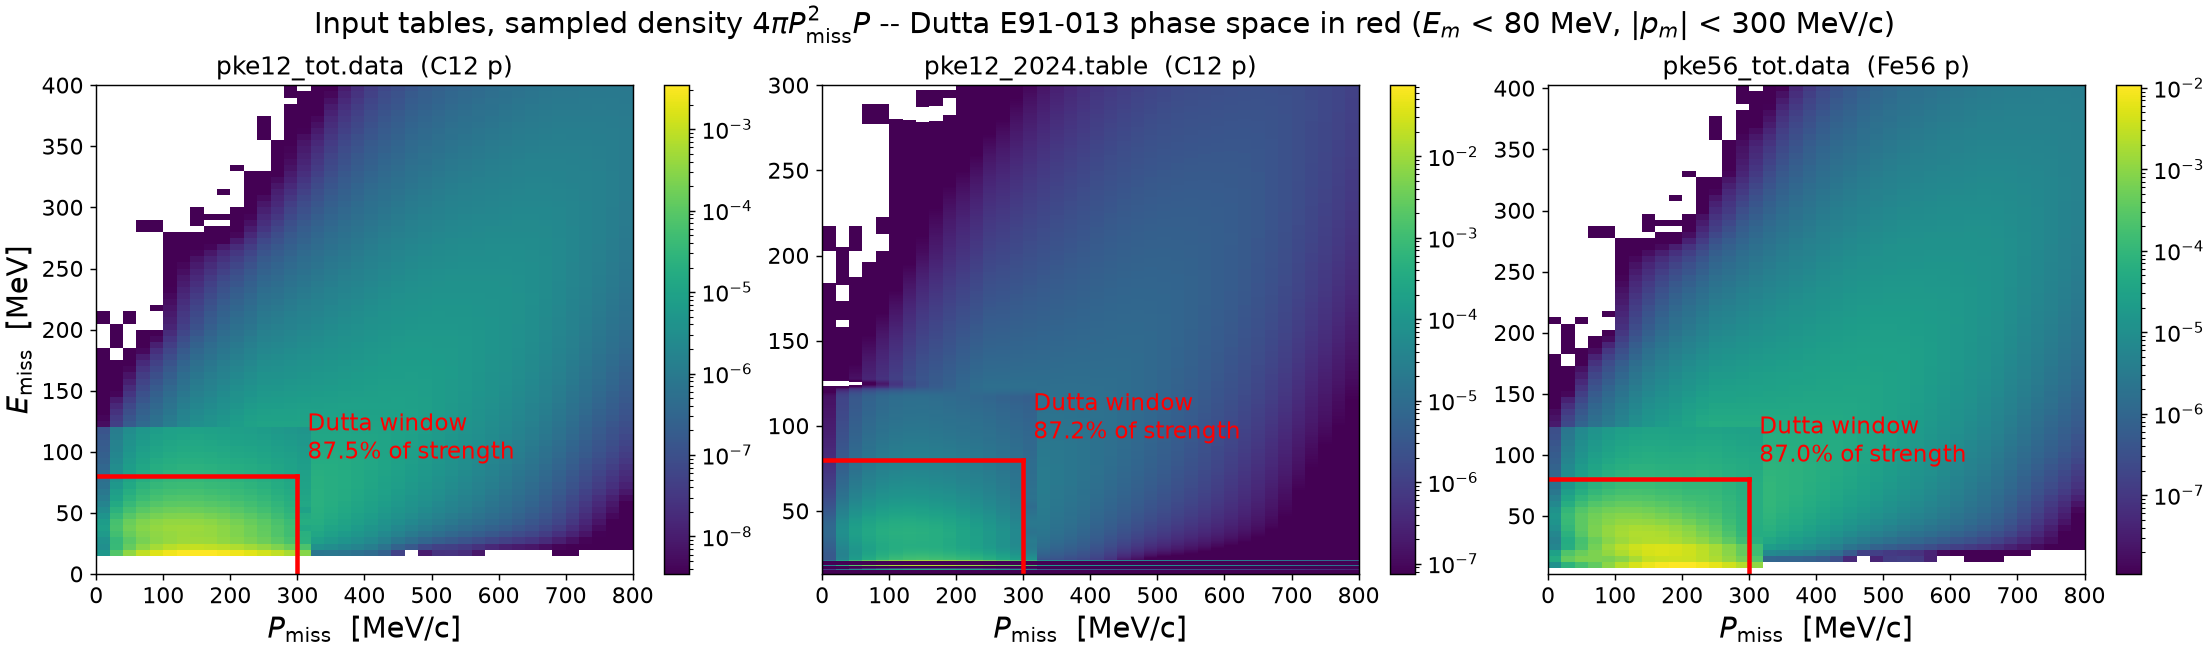
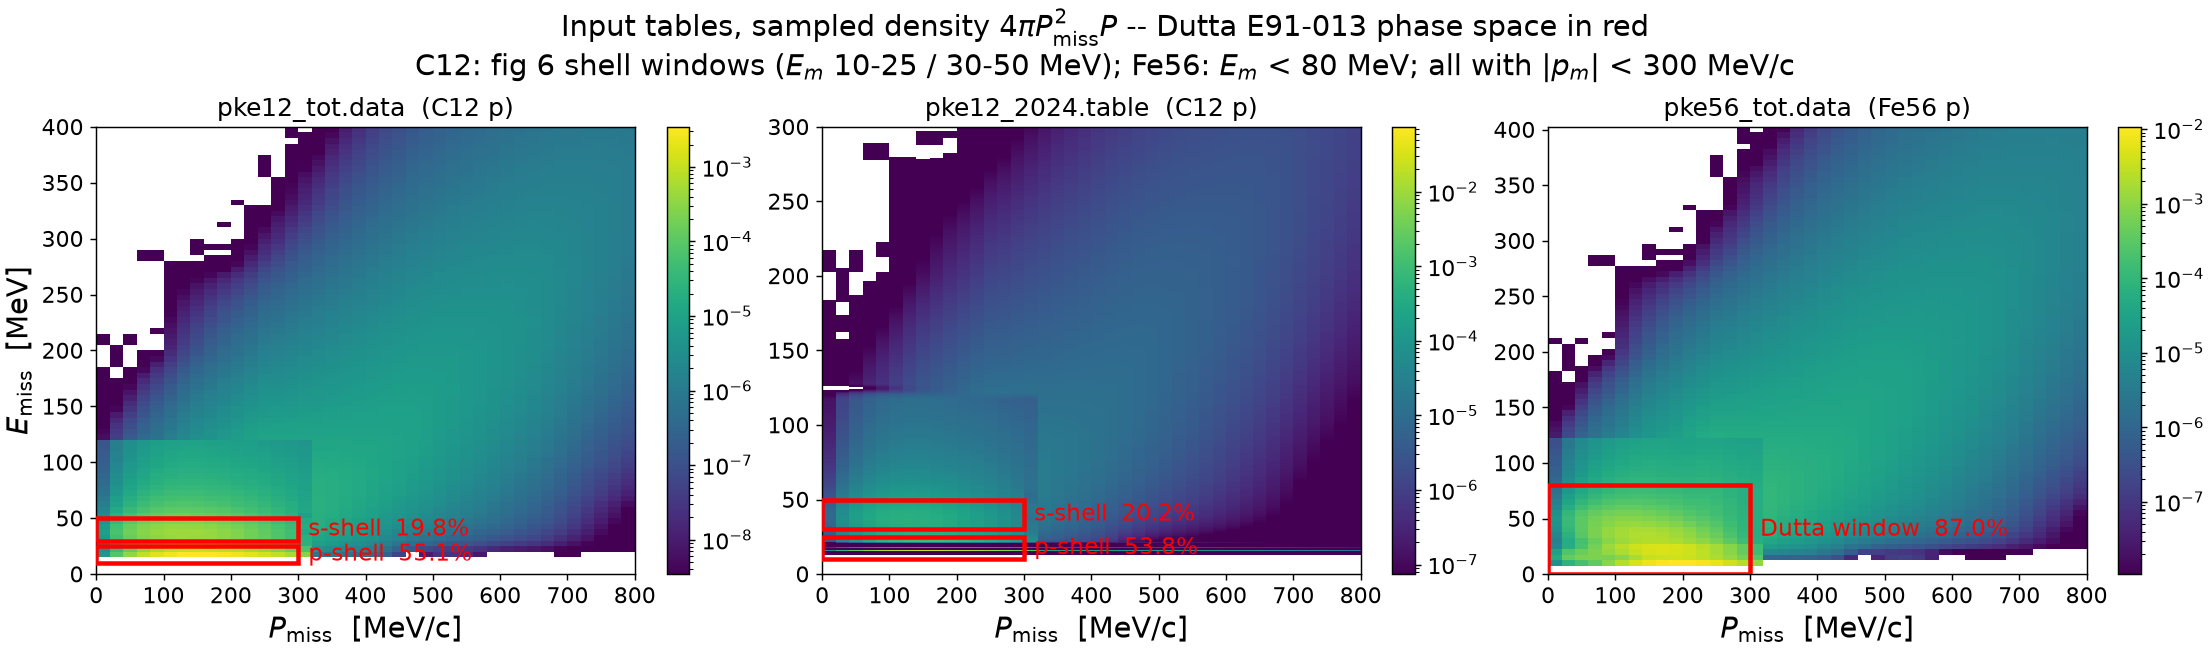
results: normalization -- C12 shell windows on the 2D maps + projection formulas
make_sf2d_window.py: C12 panels now mark the fig 6 shell windows (Em 10-25
and 30-50 MeV, |pm|<300) as red boxes with per-window fractions (55.1/19.8%
old, 53.8/20.2% 2024); Fe56 keeps the full Em<80 window (87.0%). README
gains the explicit f(Em), n(pm), and N_win integral formulas heading the
overlay section, with the data-side equivalents.

diff --git a/results/normalization/make_sf2d_window.py b/results/normalization/make_sf2d_window.py
@@ -2,9 +2,13 @@
 
 One panel per Dutta-relevant table (pke12_tot, pke12_2024, pke56_tot):
 the sampled density 4*pi*k^2*P(k,E) over the table's full native grid
-(log color, same style as make_sf2d_all.py), with the measured window
-E_m < 80 MeV, |p_m| < 300 MeV/c drawn as a red boundary and the in-window
-strength fraction (from integrate_all_pke.windowed_integral) annotated.
+(log color, same style as make_sf2d_all.py), with the measured windows
+drawn as red boxes and each in-window strength fraction annotated
+(integrate_all_pke.windowed_integral):
+
+  C12 panels : the fig 6 shell windows -- p-shell 10 < E_m < 25 MeV and
+               s-shell 30 < E_m < 50 MeV, both with |p_m| < 300 MeV/c
+  Fe56 panel : the full window E_m < 80 MeV, |p_m| < 300 MeV/c
 
 Usage:
   pixi run python results/normalization/make_sf2d_window.py
@@ -22,7 +26,11 @@ from plot_style import (apply_style, FS_LABEL, FS_TITLE, FS_TICK,
 from integrate_all_pke import (default_data_dir, parse_table, integral,
                                windowed_integral, EXPECTED)    # noqa: E402
 
-E_MAX, K_MAX = 80.0, 300.0             # the Dutta window
+K_MAX = 300.0                          # the Dutta |p_m| window
+SHELLS = [((10.0, 25.0), "p-shell"), ((30.0, 50.0), "s-shell")]
+FULL = [((0.0, 80.0), "Dutta window")]
+WINDOWS = {"pke12_tot.data": SHELLS, "pke12_2024.table": SHELLS,
+           "pke56_tot.data": FULL}
 
 
 def main():
@@ -40,8 +48,6 @@ def main():
         res = parse_table(data_dir / name)
         k, P, k_edges, E_edges, dk_w, dE_w, _ = res
         I = integral(k, P, dk_w, dE_w)
-        Iw = windowed_integral(k, P, k_edges, E_edges,
-                               (0.0, K_MAX), (0.0, E_MAX))
         D = 4.0 * np.pi * k[:, None] ** 2 * P
         Xe, Ye = np.meshgrid(k_edges, E_edges, indexing="ij")
         Dm = np.ma.masked_less_equal(D, 0.0)
@@ -50,13 +56,17 @@ def main():
         cb = fig.colorbar(pc, ax=ax, pad=0.02, fraction=0.046)
         cb.ax.tick_params(labelsize=FS_TICK)
 
-        # Dutta window boundary: the grids start at (0, ~0), so the visible
-        # boundary is the L of k = 300 (E < 80) and E = 80 (k < 300)
-        ax.plot([K_MAX, K_MAX], [E_edges[0], E_MAX], color="red", lw=2.5)
-        ax.plot([k_edges[0], K_MAX], [E_MAX, E_MAX], color="red", lw=2.5)
-        ax.text(K_MAX + 15, E_MAX + 8,
-                f"Dutta window\n{Iw / I:.1%} of strength",
-                color="red", fontsize=FS_TICK + 1, va="bottom")
+        from matplotlib.patches import Rectangle
+        for (E_lo, E_hi), label in WINDOWS[name]:
+            Iw = windowed_integral(k, P, k_edges, E_edges,
+                                   (0.0, K_MAX), (E_lo, E_hi))
+            ax.add_patch(Rectangle((0.0, E_lo), K_MAX, E_hi - E_lo,
+                                   fill=False, edgecolor="red", lw=2.5,
+                                   zorder=5))
+            ax.text(K_MAX + 15, 0.5 * (E_lo + E_hi),
+                    f"{label}  {Iw / I:.1%}",
+                    color="red", fontsize=FS_TICK + 1, va="center")
+        ax.set_ylim(0, E_edges[-1])
 
         species, _ = EXPECTED[name]
         ax.set_title(f"{name}  ({species})", fontsize=FS_TITLE - 2)
@@ -65,8 +75,9 @@ def main():
     axes[0].set_ylabel(r"$E_{\rm miss}$  [MeV]", fontsize=FS_LABEL)
 
     fig.suptitle("Input tables, sampled density $4\\pi P_{\\rm miss}^2 P$ -- "
-                 "Dutta E91-013 phase space in red "
-                 r"($E_m$ < 80 MeV, $|p_m|$ < 300 MeV/c)",
+                 "Dutta E91-013 phase space in red\n"
+                 r"C12: fig 6 shell windows ($E_m$ 10-25 / 30-50 MeV); "
+                 r"Fe56: $E_m$ < 80 MeV; all with $|p_m|$ < 300 MeV/c",
                  fontsize=FS_SUPTITLE - 2)
     out = HERE / "sf2d_dutta_window.png"
     fig.savefig(out, dpi=DPI)

diff --git a/results/normalization/README.md b/results/normalization/README.md
@@ -33,11 +33,14 @@ The same integral restricted to the measured (e,e′p) acceptance of the
 [Dutta data below](#dutta-e91-013-author-data-prc-figs-67911), with partial
 bins clipped exactly (`--e-window 0 80 --k-window 0 300`):
 
-![2D tables with the Dutta window in red](sf2d_dutta_window.png)
+![2D tables with the Dutta windows in red](sf2d_dutta_window.png)
 *Script: [`make_sf2d_window.py`](make_sf2d_window.py) — sampled density
-`4πk²P` over each table's full native grid, the Dutta window as the red
-boundary. The bright mean-field region sits inside; the diagonal SRC ridge
-toward high `E_miss`/`P_miss` carries the excluded ~13%.*
+`4πk²P` over each table's full native grid, the measured windows as red
+boxes with their strength fractions. C12 panels: the fig 6 shell windows
+(p-shell `E_m` 10–25 MeV, s-shell 30–50 MeV, both `|p_m|` < 300 MeV/c) —
+the 2024 table's quasiparticle stripes sit inside the p-shell box. Fe56:
+the full `E_m` < 80 MeV window; the diagonal SRC ridge toward high
+`E_miss`/`P_miss` carries the excluded strength.*
 
 | Table | I_window | fraction of total |
 |-------|---------:|:-----------------:|
@@ -209,6 +212,24 @@ sampling input — they document which published normalization each dataset
 sits on (shape + relative occupancy only; float the normalization in any fit).
 
 ## Input tables vs Dutta, same phase space
+
+The table density `P(p_m, E_m)` (N·P convention) is projected through the
+measured phase space two ways. The `E_m` spectrum (vs figs 9/11):
+
+$$f(E_m) \;=\; \int_0^{300\,\mathrm{MeV}/c} 4\pi\,p_m^2\,P(p_m,E_m)\,dp_m \qquad [\mathrm{MeV}^{-1}]$$
+
+and the `p_m` distribution in an `E_m` window (vs figs 6/7):
+
+$$n(p_m) \;=\; \int_{E_\mathrm{lo}}^{E_\mathrm{hi}} P(p_m,E_m)\,dE_m \qquad [\mathrm{MeV}^{-3}], \qquad (E_\mathrm{lo},E_\mathrm{hi}) = (10,25),\ (30,50),\ (0,80)\ \mathrm{MeV}$$
+
+Every annotated data/table ratio compares windowed strengths
+
+$$N_\mathrm{win} \;=\; \int_{E_\mathrm{lo}}^{E_\mathrm{hi}}\!\!\int_0^{p_\mathrm{max}} 4\pi\,p_m^2\,P(p_m,E_m)\,dp_m\,dE_m$$
+
+with the data-side equivalents: figs 9/11 tabulate `f(E_m)` directly
+(strength = Σy·5 MeV), and the folded `p_m` data `y(+p) + y(−p)` compare to
+`n(p_m)` (strength = 4π Σ y p_m² Δp_m with Δp_m = 40 MeV/c). All integrals
+are rectangle sums on the native grids with partial bins clipped exactly.
 
 ![input tables overlaid on the Dutta measurements](dutta_table_overlay.png)
 *Script: [`make_dutta_overlay.py`](make_dutta_overlay.py). Each panel projects
